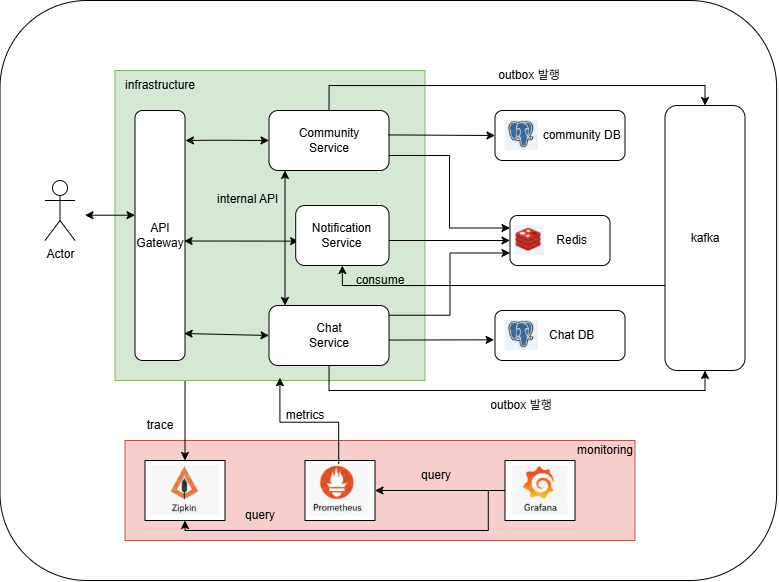
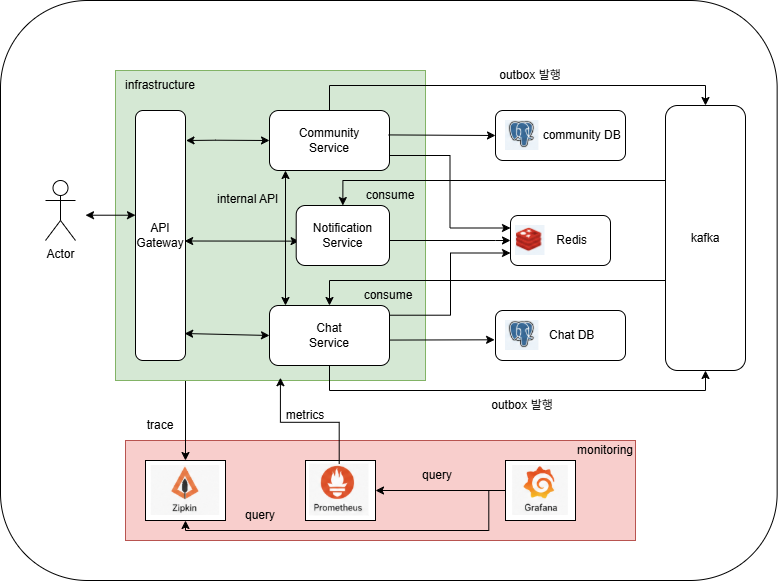
[refactor] 멤버십 아웃박스 REST → Kafka 전환 (#53)
* [refactor:community-service] 멤버십 아웃박스 REST → Kafka 전환

- community-service: MembershipOutboxEventProcessor가 chat-service를 REST로
  직접 호출하는 대신 Kafka(membership-sync-events)로 발행
- chat-service: MembershipSyncEventListener 신규, 기존 REST 수신
  컨트롤러(InternalMembershipPushController) 대체
- common: MembershipSyncEvent/Type/Topics 신규(Kafka 계약 공유)
- 안 쓰게 된 REST 클라이언트/컨트롤러/설정 삭제

* [readme] 멤버십 아웃박스 Kafka 전환 README 반영 + 다이어그램 갱신

- 2.3절 멤버십 변경 알림: REST→Kafka 전환 내용으로 설명/트레이드오프/선택 이유 재작성
- 아키텍처 다이어그램: Kafka→Chat Service consume 화살표 추가
- MSA 서비스 다이어그램: Community→Chat 멤버십 동기화 경로를 Kafka 경유로 교체(msa 서비스 최종.png)

* [readme] 멤버십 아웃박스 트레이드오프 - REST 이력 서술 제거

기존 REST 발행 방식 언급 없이 Kafka 방식만 서술하도록 정리

* [refactor:common] Kafka 발행 대기 시간 상한 + 중복 만료 알림 방지

- MembershipOutboxEventProcessor, NotificationOutboxEventProcessor:
  kafkaTemplate.send().get()가 무기한 대기하던 것을 3초 상한으로 변경,
  타임아웃 시 기존과 동일하게 실패로 기록하고 다음 폴링에 재시도
- MembershipVerifier.markExpired: 만료 알림을 열린 기간을 실제로 닫은
  경우에만 보내도록 변경 — Kafka 중복 전달 시 만료 알림이 중복 발송되던 문제 방지

* [refactor:common] Kafka producer max.block.ms 설정 추가

send()가 Future를 반환하기 전 내부적으로 멈출 수 있는 시간(기본 60초)에
상한이 없어서, Future.get(3초) 제한이 실제로는 최대 63초까지 늘어날 수
있었음. max.block.ms를 3000으로 맞춰 실제 대기가 3초 언저리로 끝나게 함

diff --git a/community-service/src/test/java/com/miniweverse/membership/outbox/MembershipOutboxEventProcessorTest.java b/community-service/src/test/java/com/miniweverse/membership/outbox/MembershipOutboxEventProcessorTest.java
@@ -1,18 +1,23 @@
 package com.miniweverse.membership.outbox;
 
 import static org.assertj.core.api.Assertions.assertThat;
+import static org.mockito.ArgumentMatchers.any;
+import static org.mockito.ArgumentMatchers.anyString;
+import static org.mockito.BDDMockito.given;
 import static org.mockito.BDDMockito.willThrow;
 import static org.mockito.Mockito.verify;
 
-import com.miniweverse.membership.client.ChatServiceMembershipNotifier;
 import java.time.LocalDateTime;
+import java.util.concurrent.CompletableFuture;
 import org.junit.jupiter.api.BeforeEach;
 import org.junit.jupiter.api.Tag;
 import org.junit.jupiter.api.Test;
 import org.junit.jupiter.api.extension.ExtendWith;
 import org.mockito.Mock;
 import org.mockito.junit.jupiter.MockitoExtension;
-import org.springframework.web.client.RestClientException;
+import org.springframework.kafka.KafkaException;
+import org.springframework.kafka.core.KafkaTemplate;
+import org.springframework.kafka.support.SendResult;
 
 @Tag("unit")
 @ExtendWith(MockitoExtension.class)
@@ -21,41 +26,45 @@ class MembershipOutboxEventProcessorTest {
     @Mock
     private MembershipOutboxEventRepository outboxEventRepository;
     @Mock
-    private ChatServiceMembershipNotifier chatServiceMembershipNotifier;
+    private KafkaTemplate<String, Object> kafkaTemplate;
 
     private MembershipOutboxEventProcessor processor;
 
     @BeforeEach
     void setUp() {
-        processor = new MembershipOutboxEventProcessor(outboxEventRepository, chatServiceMembershipNotifier);
+        processor = new MembershipOutboxEventProcessor(outboxEventRepository, kafkaTemplate);
     }
 
     @Test
-    void 활성화_이벤트_전송에_성공하면_notifyActivated를_호출하고_SENT로_전환한다() {
+    void 활성화_이벤트_전송에_성공하면_Kafka에_발행하고_SENT로_전환한다() {
         MembershipOutboxEvent event = MembershipOutboxEvent.activated(1L, 2L, LocalDateTime.now());
+        given(kafkaTemplate.send(anyString(), anyString(), any()))
+                .willReturn(CompletableFuture.completedFuture((SendResult<String, Object>) null));
 
         processor.process(event);
 
-        verify(chatServiceMembershipNotifier).notifyActivated(1L, 2L, event.getPeriodBoundaryAt());
+        verify(kafkaTemplate).send(anyString(), anyString(), any());
         assertThat(event.getStatus()).isEqualTo(OutboxEventStatus.SENT);
         verify(outboxEventRepository).save(event);
     }
 
     @Test
-    void 만료_이벤트_전송에_성공하면_notifyExpired를_호출하고_SENT로_전환한다() {
+    void 만료_이벤트_전송에_성공하면_Kafka에_발행하고_SENT로_전환한다() {
         MembershipOutboxEvent event = MembershipOutboxEvent.expired(1L, 2L, LocalDateTime.now());
+        given(kafkaTemplate.send(anyString(), anyString(), any()))
+                .willReturn(CompletableFuture.completedFuture((SendResult<String, Object>) null));
 
         processor.process(event);
 
-        verify(chatServiceMembershipNotifier).notifyExpired(1L, 2L, event.getPeriodBoundaryAt());
+        verify(kafkaTemplate).send(anyString(), anyString(), any());
         assertThat(event.getStatus()).isEqualTo(OutboxEventStatus.SENT);
     }
 
     @Test
-    void chat_service_호출이_실패하면_상태를_SENT로_바꾸지_않고_실패_횟수만_기록한다() {
+    void kafka_발행이_실패하면_상태를_SENT로_바꾸지_않고_실패_횟수만_기록한다() {
         MembershipOutboxEvent event = MembershipOutboxEvent.activated(1L, 2L, LocalDateTime.now());
-        willThrow(new RestClientException("connection refused"))
-                .given(chatServiceMembershipNotifier).notifyActivated(1L, 2L, event.getPeriodBoundaryAt());
+        willThrow(new KafkaException("broker unavailable"))
+                .given(kafkaTemplate).send(anyString(), anyString(), any());
 
         processor.process(event);
 
@@ -67,8 +76,8 @@ class MembershipOutboxEventProcessorTest {
     @Test
     void 실패가_반복돼_MAX_ATTEMPTS에_도달하면_DEAD로_전환된다() {
         MembershipOutboxEvent event = MembershipOutboxEvent.activated(1L, 2L, LocalDateTime.now());
-        willThrow(new RestClientException("connection refused"))
-                .given(chatServiceMembershipNotifier).notifyActivated(1L, 2L, event.getPeriodBoundaryAt());
+        willThrow(new KafkaException("broker unavailable"))
+                .given(kafkaTemplate).send(anyString(), anyString(), any());
 
         for (int i = 0; i < 5; i++) {
             processor.process(event);

diff --git a/community-service/src/main/java/com/miniweverse/membership/outbox/MembershipOutboxEventProcessor.java b/community-service/src/main/java/com/miniweverse/membership/outbox/MembershipOutboxEventProcessor.java
@@ -1,12 +1,18 @@
 package com.miniweverse.membership.outbox;
 
-import com.miniweverse.membership.client.ChatServiceMembershipNotifier;
+import com.miniweverse.common.membership.MembershipSyncEvent;
+import com.miniweverse.common.membership.MembershipSyncEventType;
+import com.miniweverse.common.membership.MembershipSyncTopics;
+import java.util.concurrent.ExecutionException;
+import java.util.concurrent.TimeUnit;
+import java.util.concurrent.TimeoutException;
+import org.springframework.kafka.KafkaException;
+import org.springframework.kafka.core.KafkaTemplate;
 import org.springframework.stereotype.Component;
 import org.springframework.transaction.annotation.Transactional;
-import org.springframework.web.client.RestClientException;
 
 /**
- * MembershipOutboxEvent 하나를 실제로 전송하고 결과를 커밋한다. MembershipOutboxPublisher의
+ * MembershipOutboxEvent 하나를 실제로 Kafka에 발행하고 결과를 커밋한다. MembershipOutboxPublisher의
  * 스케줄러 메서드 안에서 같은 빈의 메서드를 this::로 직접 호출하면 프록시를 거치지 않아
  * @Transactional이 무시되는 자기호출(self-invocation) 문제가 생기므로, 별도 빈으로 분리해
  * 진짜 프록시 경유 호출이 되도록 한다.
@@ -15,29 +21,39 @@ import org.springframework.web.client.RestClientException;
 public class MembershipOutboxEventProcessor {
 
     private static final int MAX_ATTEMPTS = 5;
+    // Kafka 응답을 무기한 기다리면 이 스케줄러 스레드가 멈춰서 폴링 자체가 안 돈다 — 폴링
+    // 주기(5초)보다 짧게 상한을 둬서, 응답이 없어도 실패로 기록하고 다음 폴링에 재시도되게 한다.
+    private static final long KAFKA_SEND_TIMEOUT_SECONDS = 3;
 
     private final MembershipOutboxEventRepository outboxEventRepository;
-    private final ChatServiceMembershipNotifier chatServiceMembershipNotifier;
+    private final KafkaTemplate<String, Object> kafkaTemplate;
 
     public MembershipOutboxEventProcessor(
             MembershipOutboxEventRepository outboxEventRepository,
-            ChatServiceMembershipNotifier chatServiceMembershipNotifier
+            KafkaTemplate<String, Object> kafkaTemplate
     ) {
         this.outboxEventRepository = outboxEventRepository;
-        this.chatServiceMembershipNotifier = chatServiceMembershipNotifier;
+        this.kafkaTemplate = kafkaTemplate;
     }
 
     @Transactional
     public void process(MembershipOutboxEvent event) {
         try {
-            switch (event.getEventType()) {
-                case MEMBERSHIP_ACTIVATED -> chatServiceMembershipNotifier.notifyActivated(
-                        event.getFanUserId(), event.getArtistId(), event.getPeriodBoundaryAt());
-                case MEMBERSHIP_EXPIRED -> chatServiceMembershipNotifier.notifyExpired(
-                        event.getFanUserId(), event.getArtistId(), event.getPeriodBoundaryAt());
-            }
+            MembershipSyncEventType eventType = switch (event.getEventType()) {
+                case MEMBERSHIP_ACTIVATED -> MembershipSyncEventType.ACTIVATED;
+                case MEMBERSHIP_EXPIRED -> MembershipSyncEventType.EXPIRED;
+            };
+            MembershipSyncEvent payload = new MembershipSyncEvent(
+                    eventType, event.getFanUserId(), event.getArtistId(), event.getPeriodBoundaryAt());
+            // 같은 팬의 이벤트가 순서 뒤바뀌지 않도록 fanUserId를 파티션 키로 써서, 같은 팬의
+            // 이벤트는 항상 같은 파티션(따라서 같은 컨슈머 스레드)으로 간다.
+            kafkaTemplate.send(MembershipSyncTopics.MEMBERSHIP_SYNC_EVENTS, String.valueOf(event.getFanUserId()), payload)
+                    .get(KAFKA_SEND_TIMEOUT_SECONDS, TimeUnit.SECONDS);
             event.markSent();
-        } catch (RestClientException e) {
+        } catch (KafkaException | InterruptedException | ExecutionException | TimeoutException e) {
+            if (e instanceof InterruptedException) {
+                Thread.currentThread().interrupt();
+            }
             event.recordFailure(MAX_ATTEMPTS);
         }
         // event가 findByStatusOrderByIdAsc를 호출한 이전 트랜잭션에서 넘어온 detached 상태일 수

diff --git a/common/src/main/java/com/miniweverse/common/notification/outbox/NotificationOutboxEventProcessor.java b/common/src/main/java/com/miniweverse/common/notification/outbox/NotificationOutboxEventProcessor.java
@@ -2,6 +2,9 @@ package com.miniweverse.common.notification.outbox;
 
 import com.miniweverse.common.notification.NotificationEvent;
 import com.miniweverse.common.notification.NotificationTopics;
+import java.util.concurrent.ExecutionException;
+import java.util.concurrent.TimeUnit;
+import java.util.concurrent.TimeoutException;
 import org.springframework.kafka.core.KafkaTemplate;
 import org.springframework.kafka.KafkaException;
 import org.springframework.stereotype.Component;
@@ -17,6 +20,9 @@ import org.springframework.transaction.annotation.Transactional;
 public class NotificationOutboxEventProcessor {
 
     private static final int MAX_ATTEMPTS = 5;
+    // Kafka 응답을 무기한 기다리면 이 스케줄러 스레드가 멈춰서 폴링 자체가 안 돈다 — 폴링
+    // 주기(5초)보다 짧게 상한을 둬서, 응답이 없어도 실패로 기록하고 다음 폴링에 재시도되게 한다.
+    private static final long KAFKA_SEND_TIMEOUT_SECONDS = 3;
 
     private final NotificationOutboxEventRepository outboxEventRepository;
     private final KafkaTemplate<String, Object> kafkaTemplate;
@@ -47,9 +53,9 @@ public class NotificationOutboxEventProcessor {
             // 같은 유저의 알림이 순서 뒤바뀌지 않도록 targetUserId를 파티션 키로 써서, 같은 유저의
             // 이벤트는 항상 같은 파티션(따라서 같은 컨슈머 스레드)으로 간다.
             kafkaTemplate.send(NotificationTopics.NOTIFICATION_EVENTS, String.valueOf(event.getTargetUserId()), payload)
-                    .get();
+                    .get(KAFKA_SEND_TIMEOUT_SECONDS, TimeUnit.SECONDS);
             event.markSent();
-        } catch (KafkaException | InterruptedException | java.util.concurrent.ExecutionException e) {
+        } catch (KafkaException | InterruptedException | ExecutionException | TimeoutException e) {
             if (e instanceof InterruptedException) {
                 Thread.currentThread().interrupt();
             }

diff --git a/chat-service/src/main/java/com/miniweverse/chat/membership/MembershipVerifier.java b/chat-service/src/main/java/com/miniweverse/chat/membership/MembershipVerifier.java
@@ -69,20 +69,24 @@ public class MembershipVerifier {
      * 열려있던 기간 이력을 닫고, 그 팬이 지금 접속 중이면(화면을 이미 켜놓고 있었다면) 만료 알림을
      * 한 번 보낸다. 접속 중이 아니면 그냥 버려진다(별도 저장/재전송 안 함) — 다음에 REST로 이력을
      * 조회하면 403으로 걸러진다.
+     * 만료 알림은 열려있던 기간을 실제로 닫은 경우에만 보낸다 — Kafka는 최소 1번 전달이라 같은
+     * EXPIRED 이벤트가 중복으로 올 수 있는데, 매번 무조건 보내면 이미 닫힌 기간에 대해서도 팬에게
+     * 만료 알림이 중복으로 나간다.
      */
     public void markExpired(Long fanUserId, Long artistId, LocalDateTime periodEndedAt) {
         membershipCache.put(fanUserId, artistId, false);
-        if (periodEndedAt != null) {
-            membershipPeriodRepository.findOpenPeriod(fanUserId, artistId)
-                    .ifPresent(period -> {
-                        period.close(periodEndedAt);
-                        membershipPeriodRepository.save(period);
-                    });
+        if (periodEndedAt == null) {
+            return;
         }
-        broadcastPublisher.toUser(
-                String.valueOf(fanUserId),
-                "/queue/rooms/" + artistId + "/notice",
-                MembershipExpiredNotice.of(artistId)
-        );
+        membershipPeriodRepository.findOpenPeriod(fanUserId, artistId)
+                .ifPresent(period -> {
+                    period.close(periodEndedAt);
+                    membershipPeriodRepository.save(period);
+                    broadcastPublisher.toUser(
+                            String.valueOf(fanUserId),
+                            "/queue/rooms/" + artistId + "/notice",
+                            MembershipExpiredNotice.of(artistId)
+                    );
+                });
     }
 }

diff --git a/chat-service/src/main/java/com/miniweverse/chat/membership/MembershipSyncEventListener.java b/chat-service/src/main/java/com/miniweverse/chat/membership/MembershipSyncEventListener.java
@@ -1,0 +1,31 @@
+package com.miniweverse.chat.membership;
+
+import com.miniweverse.common.membership.MembershipSyncEvent;
+import com.miniweverse.common.membership.MembershipSyncTopics;
+import org.springframework.kafka.annotation.KafkaListener;
+import org.springframework.stereotype.Component;
+
+/**
+ * community-service가 구독/만료 시점에 발행하는 멤버십 상태 변경 이벤트를 소비해 캐시를 즉시
+ * 정정시킨다(MembershipCache가 false도 자정까지 캐싱하기 때문에 이 반영이 필요하다).
+ * 예전엔 community-service가 REST로 직접 호출했으나, chat-service가 오래 다운돼 있으면 재시도
+ * 한도(5회)를 넘겨 이벤트가 DEAD 처리되고 방치되는 문제가 있어 Kafka로 전환했다 — 컨슈머가
+ * 복구되면 밀린 이벤트를 그대로 이어받아 처리한다.
+ */
+@Component
+public class MembershipSyncEventListener {
+
+    private final MembershipVerifier membershipVerifier;
+
+    public MembershipSyncEventListener(MembershipVerifier membershipVerifier) {
+        this.membershipVerifier = membershipVerifier;
+    }
+
+    @KafkaListener(topics = MembershipSyncTopics.MEMBERSHIP_SYNC_EVENTS)
+    public void onMembershipSyncEvent(MembershipSyncEvent event) {
+        switch (event.eventType()) {
+            case ACTIVATED -> membershipVerifier.markActive(event.fanUserId(), event.artistId(), event.periodBoundaryAt());
+            case EXPIRED -> membershipVerifier.markExpired(event.fanUserId(), event.artistId(), event.periodBoundaryAt());
+        }
+    }
+}

diff --git a/common/src/main/java/com/miniweverse/common/membership/MembershipSyncEvent.java b/common/src/main/java/com/miniweverse/common/membership/MembershipSyncEvent.java
@@ -1,0 +1,19 @@
+package com.miniweverse.common.membership;
+
+import java.time.LocalDateTime;
+
+/**
+ * Kafka membership-sync-events 토픽에 실리는 메시지 본문. community-service가 발행하고
+ * chat-service가 그대로 역직렬화해서 소비한다 — 두 쪽이 완전히 동일한 계약을 공유해야 하므로
+ * common 모듈에 둔다(NotificationEvent와 동일한 이유).
+ *
+ * @param periodBoundaryAt ACTIVATED면 새로 연 기간의 시작 시각(그냥 연장인 경우엔 null),
+ *                         EXPIRED면 방금 닫은 기간의 종료 시각(항상 값 있음)
+ */
+public record MembershipSyncEvent(
+        MembershipSyncEventType eventType,
+        Long fanUserId,
+        Long artistId,
+        LocalDateTime periodBoundaryAt
+) {
+}

diff --git a/common/src/main/java/com/miniweverse/common/membership/MembershipSyncTopics.java b/common/src/main/java/com/miniweverse/common/membership/MembershipSyncTopics.java
@@ -1,0 +1,9 @@
+package com.miniweverse.common.membership;
+
+public final class MembershipSyncTopics {
+
+    public static final String MEMBERSHIP_SYNC_EVENTS = "membership-sync-events";
+
+    private MembershipSyncTopics() {
+    }
+}

diff --git a/common/src/main/java/com/miniweverse/common/membership/MembershipSyncEventType.java b/common/src/main/java/com/miniweverse/common/membership/MembershipSyncEventType.java
@@ -1,0 +1,6 @@
+package com.miniweverse.common.membership;
+
+public enum MembershipSyncEventType {
+    ACTIVATED,
+    EXPIRED
+}

diff --git a/README.md b/README.md
@@ -130,7 +130,7 @@ mini_weverse는 커뮤니티·멤버십·실시간 채팅이 독립된 서비스
 
 ### 📡 2.1 서비스 간 통신
 
-![MSA 서비스](image/msa%20서비스.png)
+![MSA 서비스](image/msa%20서비스%20최종.png)
 
 ### 🔐 2.2 API Gateway
 
@@ -219,18 +219,18 @@ mini_weverse는 커뮤니티·멤버십·실시간 채팅이 독립된 서비스
 </details>
 
 <details>
-<summary>멤버십 변경 알림 (동기 호출 vs 트랜잭션 아웃박스)</summary>
+<summary>멤버십 변경 알림 (동기 호출 vs 트랜잭션 아웃박스 + Kafka)</summary>
 
-**주요기능 설명**: 구독/만료 처리(DB 트랜잭션)와 chat-service 알림(네트워크 호출)을 분리 — "상태 변경 커밋 + 이벤트 적재"까지만 원자적으로 보장하고, 실제 전송은 스케줄러가 5초마다 폴링하며 재시도
+**주요기능 설명**: 구독/만료 처리(DB 트랜잭션)와 chat-service 반영을 분리 — "상태 변경 커밋 + 이벤트 적재"까지만 원자적으로 보장하고, 실제 발행은 스케줄러가 5초마다 폴링하며 Kafka(`membership-sync-events` 토픽)로 전송. chat-service는 이 토픽을 구독해 캐시·기간 이력을 갱신한다
 
 **트레이드오프**
 
 | 방식 | 장점 | 단점 |
 |---|---|---|
 | 동기 호출(상태 변경 트랜잭션 안에서 바로 chat-service 호출) | 구현 단순, 실시간 반영 | chat-service가 그 순간 응답 안 하면 트랜잭션 전체 실패, 분산 트랜잭션 없이는 두 작업을 하나로 묶을 수 없음 |
-| **트랜잭션 아웃박스 (선택)** | chat-service 장애/다운타임과 무관하게 이벤트 유실 없음 | 아웃박스 테이블·발행자·폴링 로직 추가 필요, 즉시 반영은 아니고 최대 폴링 주기(5초)만큼 지연 |
+| **아웃박스 + Kafka 발행 (선택)** | chat-service 장애/다운타임과 무관하게 이벤트 유실 없음 — 브로커가 메시지를 보존하고 있다가 chat-service가 복구되면 자동으로 이어받아 처리 | 아웃박스 테이블·발행자·폴링 로직에 더해 Kafka 인프라·컨슈머 관리 필요, 즉시 반영은 아니고 최대 폴링 주기(5초)만큼 지연 |
 
-**선택 이유**: 향후 서비스를 더 쪼개고 메시지 브로커(Kafka 등) 도입 계획이 있어서, 지금 아웃박스 테이블을 만들어두면 나중에 발행 소스만 REST 호출에서 브로커 발행으로 바꾸면 되고 쓰기 경로(트랜잭션 안에서 이벤트 적재)는 그대로 유지됨
+**선택 이유**: chat-service의 멤버십 상태(`MembershipPeriod`/`MembershipCache`)는 단순 알림이 아니라 채팅 가시성 판단에 직접 쓰이는 데이터라, chat-service 장애와 무관하게 이벤트가 유실되지 않는 게 중요하다고 판단. 알림(2.6)에 이미 같은 이유로 Kafka 인프라가 구축돼 있어 추가 인프라 비용 없이 적용 가능했음. chat-service를 강제 종료한 상태에서 이벤트를 발생시키고 재기동해, 자동으로 밀린 이벤트를 이어받아 처리하는 것까지 실측으로 확인함
 
 </details>
 
